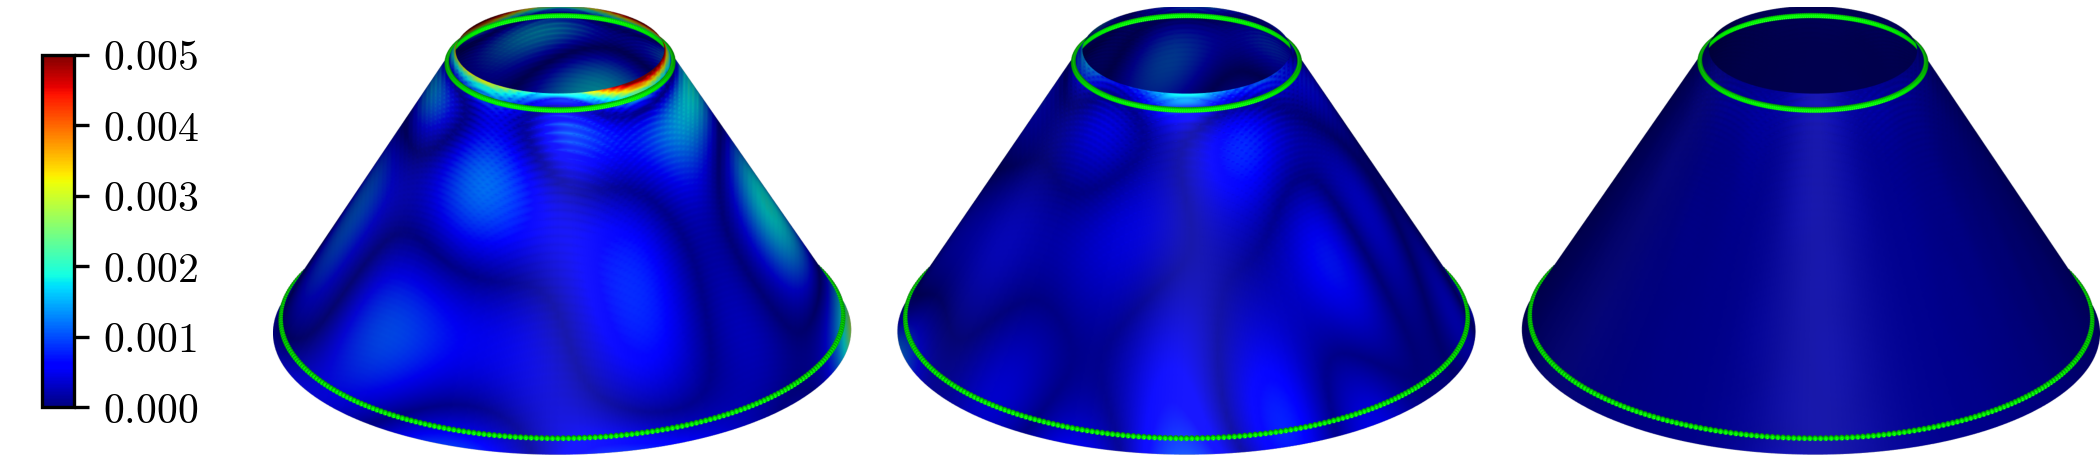
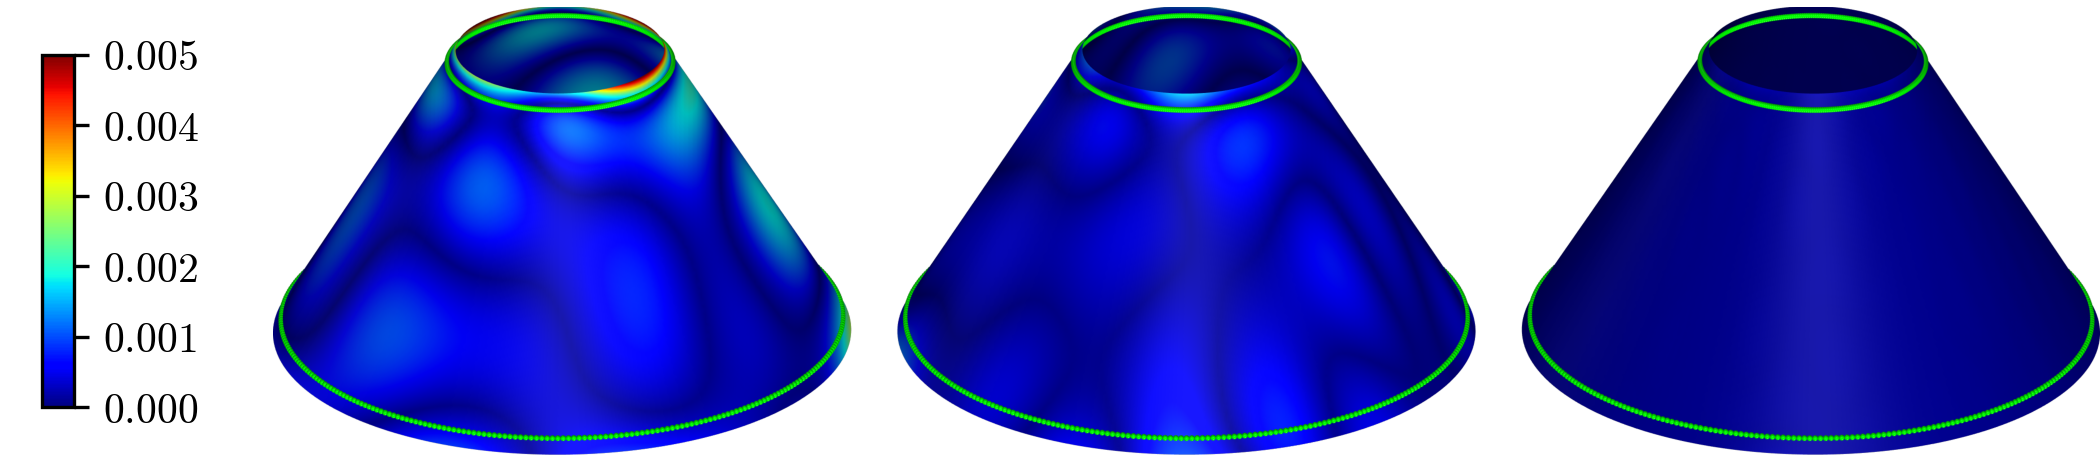
Seed statistics, LM and hybrid optimizers, heatmap curvature on the zero set

diff --git a/experiments/seeds.py b/experiments/seeds.py
@@ -1,0 +1,164 @@
+"""
+Statistics over repeated seeds of the runs in <task>/main (no training), e.g.
+
+    python -m experiments.seeds --tasks catenoid enneper cone rockerarm bunny jeb
+
+Writes per task to paper_figures/:
+    <task>_loss_seeds.png, <task>_chamfer_seeds.png    each seed's curve as the median in time bins of ~3 s; the median
+                                                        over the seeds that reach the target surface (line), their range
+                                                        (band), and the other seeds (dashed)
+and for all tasks together:
+    paper_figures/seeds_overview.png                    best Chamfer distance (JEB: loss) of every seed, per task and optimizer
+    experiments/results/seeds.md                        median [interquartile range] of the best models and outcome counts
+The figures show the optimizers of the paper figures (task.figure_opts); the table shows all optimizers with runs.
+On the minimal and developable surfaces (exact ground truth), each run is classified by outcome() into reaching the
+target surface, an alternative solution of the loss, or a failure. The other tasks have no such classification;
+artifacts such as spurious sheets show up in the Hausdorff distance.
+"""
+
+import argparse
+import os
+import numpy as np
+import matplotlib.pyplot as plt
+from experiments.run import RESULTS_DIR
+from experiments.tasks import TASKS
+from experiments.plot import LABELS, COLORS, load_runs
+from experiments.figures import PAPER_FIGURES_DIR
+
+FAIL_CD = 1e-2
+TITLES = {"rockerarm": "Rocker arm", "jeb": "JEB (loss)"}
+SEEDS = {"jeb": [0, 1, 2]}           ## default: 0-4
+RUN_SUFFIX = {"jeb": "_pretrainedown"}  ## the JEB seeds are pretrained per seed
+TABLE_KEYS = {"rockerarm": ["loss", "cd", "hausdorff"], "bunny": ["loss", "cd", "hausdorff"],
+              "jeb": ["loss", "interface_rms", "design_region_violation", "n_components"]}  ## default: loss, cd
+
+
+def load_seeds(task_name):
+    """{opt: [(log, evals), ...]} over the seeds of the task, for the optimizers that have runs."""
+    exp_dir = os.path.join(RESULTS_DIR, task_name, "main")
+    suffix = RUN_SUFFIX.get(task_name, "")
+    runs = {}
+    for opt in LABELS:
+        seed_runs = [load_runs(exp_dir, [opt + suffix], s).get(opt + suffix) for s in SEEDS.get(task_name, range(5))]
+        if any(seed_runs):
+            runs[opt] = [r for r in seed_runs if r is not None]
+    return runs
+
+
+def outcome(task_name, evals):
+    """
+    Minimal and developable surfaces: "target" if the best model is close to the true surface; otherwise "alternative"
+    if it still contains the boundary curve (another solution of the same loss, e.g. the planes through the catenoid's
+    rings), else "failed" (e.g. a collapsed f whose zero set misses the boundary). Other tasks: always "target".
+    """
+    m = evals["best"]
+    if not hasattr(TASKS[task_name], "curvature") or m["cd"] <= FAIL_CD:
+        return "target"
+    return "alternative" if m["interface_rms"] <= FAIL_CD else "failed"
+
+
+def binned(t, v, edges):
+    """
+    Median of log10(v) in each time bin (the loss is logged at every iteration and oscillates, so single samples are
+    noise); empty bins are interpolated, and bins after the last finite value are NaN (diverged runs).
+    """
+    t, v = np.asarray(t, dtype=float), np.asarray(v, dtype=float)
+    ok = np.isfinite(v) & (v > 0)
+    centers = (edges[:-1] + edges[1:]) / 2
+    if not ok.any():
+        return np.full_like(centers, np.nan)
+    t, y = t[ok], np.log10(v[ok])
+    idx = np.digitize(t, edges) - 1
+    med = np.array([np.median(y[idx == b]) if (idx == b).any() else np.nan for b in range(len(centers))])
+    has = np.isfinite(med)
+    med = np.interp(centers, centers[has], med[has])
+    med[centers > t[-1]] = np.nan
+    return med
+
+
+def plot_seeds_over_time(task_name, runs, key, ylabel, paths, opts, n_bins=400):
+    budget = max(log["time"][-1] for seed_runs in runs.values() for log, _ in seed_runs)
+    edges = np.linspace(0, budget, n_bins + 1)
+    centers = (edges[:-1] + edges[1:]) / 2
+    fig, ax = plt.subplots(1, 1, figsize=(5, 3))
+    for opt in opts:
+        curves, ok = [], []
+        for log, evals in runs[opt]:
+            t, v = (log["time"], log["loss"]) if key == "loss" else zip(*[(e["time"], e[key]) for e in evals["over_time"]])
+            curves.append(binned(t, v, edges))
+            ok.append(outcome(task_name, evals) == "target")
+            if not ok[-1]:
+                ax.plot(centers, 10 ** curves[-1], c=COLORS[opt], lw=0.6, ls="--", alpha=0.6)
+        good = np.array(curves)[ok]
+        if len(good):
+            ax.fill_between(centers, 10 ** np.nanmin(good, axis=0), 10 ** np.nanmax(good, axis=0),
+                            color=COLORS[opt], alpha=0.25, lw=0)
+            ax.plot(centers, 10 ** np.nanmedian(good, axis=0), c=COLORS[opt], label=LABELS[opt])
+    ax.set_xlabel("Time in [s]")
+    ax.set_ylabel(ylabel)
+    ax.semilogy()
+    ax.legend(loc="upper right")
+    plt.tight_layout()
+    for path in paths:
+        plt.savefig(path, dpi=300)
+    plt.close(fig)
+
+
+def overview(all_runs, path):
+    fig, axs = plt.subplots(1, len(all_runs), figsize=(1.7 * len(all_runs), 2.8))
+    rng = np.random.default_rng(0)
+    for ax, (task_name, runs) in zip(np.atleast_1d(axs), all_runs.items()):
+        key = "cd" if "cd" in next(iter(runs.values()))[0][1]["best"] else "loss"
+        for i, (opt, seed_runs) in enumerate(runs.items()):
+            v = [evals["best"][key] for _, evals in seed_runs]
+            ax.scatter(i + rng.uniform(-0.15, 0.15, len(v)), v, s=12, color=COLORS[opt])
+        if hasattr(TASKS[task_name], "curvature"):
+            ax.axhline(FAIL_CD, c="gray", ls="--", lw=0.8)
+        ax.set_xticks(range(len(runs)), [LABELS[opt] for opt in runs], rotation=45)
+        ax.set_xlim(-0.6, len(runs) - 0.4)
+        ax.semilogy()
+        ax.set_title(TITLES.get(task_name, task_name.capitalize()), fontsize=10)
+    np.atleast_1d(axs)[0].set_ylabel("Chamfer distance")
+    plt.tight_layout()
+    plt.savefig(path, dpi=300)
+    plt.close(fig)
+
+
+def seeds_table(task_name, runs):
+    keys = TABLE_KEYS.get(task_name, ["loss", "cd"])
+    rows = [f"### {task_name}\n", "| | seeds | alternative | failed | " + " | ".join(keys) + " |",
+            "|---" * (len(keys) + 4) + "|"]
+    for opt, seed_runs in runs.items():
+        cells = []
+        for k in keys:
+            v = [evals["best"][k] for _, evals in seed_runs]
+            fmt = "{:g}" if all(isinstance(x, int) for x in v) else "{:.1e}"  ## counts, e.g. n_components
+            cells.append("{} [{}, {}]".format(*(fmt.format(q) for q in np.percentile(v, [50, 25, 75]))))
+        outcomes = [outcome(task_name, evals) for _, evals in seed_runs]
+        counts = [outcomes.count(o) if hasattr(TASKS[task_name], "curvature") else "-" for o in ["alternative", "failed"]]
+        rows.append(f"| {LABELS[opt]} | {len(seed_runs)} | {counts[0]} | {counts[1]} | " + " | ".join(cells) + " |")
+    return "\n".join(rows)
+
+
+if __name__ == "__main__":
+    parser = argparse.ArgumentParser()
+    parser.add_argument("--tasks", nargs="+", default=list(TASKS), choices=TASKS)
+    args = parser.parse_args()
+
+    all_runs = {t: load_seeds(t) for t in args.tasks}
+    ## The figures show the optimizers of the paper figures (task.figure_opts), the table all optimizers with runs
+    figure_runs = {t: {opt: runs[opt] for opt in TASKS[t].figure_opts if opt in runs} for t, runs in all_runs.items()}
+    for task_name, runs in figure_runs.items():
+        out = lambda name: [os.path.join(PAPER_FIGURES_DIR, f"{task_name}_{name}_seeds.png")]
+        plot_seeds_over_time(task_name, runs, "loss", "Loss", out("loss"), list(runs))
+        if "cd" in next(iter(runs.values()))[0][1]["best"]:
+            plot_seeds_over_time(task_name, runs, "cd", "Chamfer distance", out("chamfer"), list(runs))
+    overview(figure_runs, os.path.join(PAPER_FIGURES_DIR, "seeds_overview.png"))
+    table = "## Best models over seeds: median [interquartile range]\n\n" + \
+            f"Minimal and developable surfaces: a best Chamfer distance above {FAIL_CD:g} is an alternative solution " + \
+            f"if the interface error stays below {FAIL_CD:g} (the surface still contains the boundary), " + \
+            "else a failure; all runs are included in the statistics.\n\n" + \
+            "\n\n".join(seeds_table(t, runs) for t, runs in all_runs.items()) + "\n"
+    with open(os.path.join(RESULTS_DIR, "seeds.md"), "w") as f:
+        f.write(table)
+    print(table)

diff --git a/experiments/figures.py b/experiments/figures.py
@@ -2,6 +2,7 @@
 Paper figures from finished runs (no training), e.g.
 
     python -m experiments.figures --task catenoid
+    python -m experiments.figures --task catenoid --runs gn_seed0 gn_seed4 --name nonunique --paper
 
 Writes the paper figures to paper_figures/ (prefix <task>, or <task>_<exp> for exp != main, plus --suffix):
     <prefix>_loss.png, <prefix>_chamfer.png               training curves
@@ -10,6 +11,8 @@ Writes the paper figures to paper_figures/ (prefix <task>, or <task>_<exp> for e
 and the interactive scenes to experiments/results/<task>/<exp>/k3d/:
     heatmap.html / surfaces.html                          the scene of the figure above
     heatmap_<opt>.html / surfaces_<opt>.html              one optimizer per file (e.g. for the README)
+With --runs, only the given runs are rendered side by side in the same style, to k3d/<name>.html and k3d/<name>.png
+(e.g. to compare seeds or inspect failures); --paper writes the PNG to paper_figures/<task>_<name>.png instead.
 The PNG of the k3d scene is rendered with headless Chrome via selenium.
 """
 
@@ -31,7 +34,7 @@ from util.visualization.utils_mesh import get_mesh
 from experiments.run import RESULTS_DIR
 from experiments.tasks import TASKS
 from experiments.plot import LABELS, load_runs, plot_over_time
-from experiments.metrics import largest_component
+from experiments.metrics import largest_component, project_to_model
 
 PAPER_FIGURES_DIR = os.path.join(os.path.dirname(os.path.dirname(__file__)), "paper_figures")
 
@@ -65,8 +68,14 @@ def surface_mesh(task, run_dir, N=256):
     if hasattr(task, "surface_attribute"):
         k = task.surface_attribute(model, verts)
     elif hasattr(task, "curvature"):
-        residual = getattr(ResidualLibrary(model), "_" + task.curvature)
-        k = vmap(residual, in_dims=(None, 0))(model.params, torch.tensor(verts, dtype=torch.float64)).squeeze()
+        ## Curvature of the zero set at the vertices projected onto it: the marching-cubes vertices lie up to a cell off
+        ## the surface, where the level sets of f can be curved differently if f is far from a distance function
+        res_lib = ResidualLibrary(model)
+        x = torch.tensor(verts, dtype=torch.float64)
+        p, converged = project_to_model(model, res_lib, x)
+        cell = (bbox_max - bbox_min).max().item() / N
+        p = torch.where((converged & ((p - x).norm(dim=1) < cell))[:, None], p, x)
+        k = vmap(getattr(res_lib, "_" + task.curvature), in_dims=(None, 0))(model.params, p).squeeze()
         k = k.abs().detach().cpu().numpy().astype(np.float32)
     return display_orientation(task, verts.astype(np.float32)), faces.astype(np.uint32), k
 
@@ -151,6 +160,9 @@ if __name__ == "__main__":
     parser.add_argument("--exp", default="main")
     parser.add_argument("--seed", type=int, default=0)
     parser.add_argument("--suffix", default="", help="run name suffix after the optimizer, e.g. _strain_clip1000")
+    parser.add_argument("--runs", nargs="*", help="only render these runs side by side, e.g. gn_seed0 gn_seed4")
+    parser.add_argument("--name", default="runs", help="figure name for --runs")
+    parser.add_argument("--paper", action="store_true", help="--runs: write the PNG to paper_figures/")
     args = parser.parse_args()
 
     torch.set_default_device('cuda')
@@ -159,6 +171,17 @@ if __name__ == "__main__":
     k3d_dir = os.path.join(exp_dir, "k3d" + args.suffix)
     os.makedirs(k3d_dir, exist_ok=True)
     os.makedirs(PAPER_FIGURES_DIR, exist_ok=True)
+    if args.runs:
+        ## Chosen runs side by side (e.g. different solutions or failure modes), in the style of the heatmap figure
+        meshes = [surface_mesh(task, os.path.join(exp_dir, run)) for run in args.runs]
+        html_path = os.path.join(k3d_dir, f"{args.name}.html")
+        with open(html_path, "w") as f:
+            f.write(k3d_scene(task, meshes).get_snapshot())
+        png_path = os.path.join(PAPER_FIGURES_DIR, f"{args.task}_{args.name}.png") if args.paper else html_path[:-5] + ".png"
+        heatmap_figure(k3d_screenshot(html_path, 800 * len(meshes), 800), task.heatmap.get("color_range"), [png_path],
+                       ticks=task.heatmap.get("ticks"))
+        print(f"{args.name} order (left to right):", ", ".join(args.runs))
+        raise SystemExit
     runs = load_runs(exp_dir, [opt + args.suffix for opt in task.figure_opts], args.seed)
     runs = {name.removesuffix(args.suffix): run for name, run in runs.items()}
     prefix = (args.task if args.exp == "main" else f"{args.task}_{args.exp.replace('/', '_')}") + args.suffix

diff --git a/experiments/run.py b/experiments/run.py
@@ -9,6 +9,9 @@ Writes to experiments/results/<task>/<exp>/<opt><tag><task args>_seed<seed>/:
     evals.json   error metrics every --eval-every seconds of training time, and at the end
     best.pt, final.pt  model state dicts
 
+Optimizers: gn, adam, lbfgs, lm (Levenberg-Marquardt), and the hybrids adam_lbfgs and adam_gn, which switch from Adam
+to the second optimizer after SWITCH_FRACTION of the budget (the usual Adam -> LBFGS recipe of PINNs).
+
 The clock only runs during the optimizer steps (incl. surface resampling).
 Evaluation, logging and best-model tracking happen with the clock paused.
 """
@@ -21,10 +24,12 @@ import time
 import torch
 from tqdm import trange
 from training.residuals import ResidualLibrary, compute_loss
-from training.optimizers import GaussNewton
+from training.optimizers import GaussNewton, LevenbergMarquardt
 from experiments.tasks import TASKS
 
 RESULTS_DIR = os.path.join(os.path.dirname(__file__), "results")
+BASE_OPT = {"lm": "gn", "adam_lbfgs": "adam", "adam_gn": "adam"}  ## whose task settings (eikonal weight) these use
+SWITCH_FRACTION = 0.25  ## hybrids: fraction of the budget spent with Adam
 
 
 class Clock:
@@ -80,6 +85,8 @@ def make_optimizer(name, model, res_terms, gn_class=GaussNewton, **kwargs):
         return torch.optim.Adam(model.parameters(), **kwargs)
     if name == "lbfgs":
         return torch.optim.LBFGS(model.parameters(), **kwargs)
+    if name == "lm":
+        return LevenbergMarquardt(model, res_terms, **kwargs)
     raise ValueError(f"Unknown optimizer {name}")
 
 
@@ -123,9 +130,11 @@ def run(task_name, opt_name, seed=0, budget=600, eval_every=5, task_args={}, opt
     model = pretrain(task, seed, os.path.join(pretrained_dir, f"seed{seed}{args_str}.pt"))
     params = model.params
     res_lib = ResidualLibrary(model)
-    res_terms = task.res_terms(res_lib, opt_name)
-    opt_kwargs = {**task.opt_defaults[opt_name], **opt_args}
-    optim = make_optimizer(opt_name, model, res_terms, getattr(task, "gn_class", GaussNewton), **opt_kwargs)
+    res_terms = task.res_terms(res_lib, BASE_OPT.get(opt_name, opt_name))
+    first, _, second = opt_name.partition("_")  ## hybrids: first, then second
+    opt_kwargs = {**task.opt_defaults.get(first, {}), **opt_args}
+    gn_class = getattr(task, "gn_class", GaussNewton)
+    optim = make_optimizer(first, model, res_terms, gn_class, **opt_kwargs)
 
     config = dict(
         task=task_name, task_args=task_args, opt=opt_name, opt_args=opt_kwargs, seed=seed, budget=budget,
@@ -137,7 +146,7 @@ def run(task_name, opt_name, seed=0, budget=600, eval_every=5, task_args={}, opt
     with open(os.path.join(out_dir, "config.json"), "w") as f:
         json.dump(config, f, indent=2)
 
-    log = {"time": [], "loss": [], **{k: [] for k in res_terms}}
+    log = {"time": [], "loss": [], **{k: [] for k in res_terms}, "switch_time": None}
     evals = []
     best_loss = float('inf')
     best_state = {k: v.clone() for k, v in model.state_dict().items()}
@@ -169,6 +178,9 @@ def run(task_name, opt_name, seed=0, budget=600, eval_every=5, task_args={}, opt
         if loss < best_loss:
             best_loss = loss
             best_state = {k: v.clone() for k, v in model.state_dict().items()}
+        if second and log["switch_time"] is None and clock.elapsed >= SWITCH_FRACTION * budget:
+            optim = make_optimizer(second, model, res_terms, gn_class, **task.opt_defaults[second])
+            log["switch_time"] = clock.elapsed
         pbar.set_description(f"t: {clock.elapsed:.0f}s loss: {loss:.2e}")
 
     torch.save(model.state_dict(), os.path.join(out_dir, "final.pt"))
@@ -186,7 +198,7 @@ def run(task_name, opt_name, seed=0, budget=600, eval_every=5, task_args={}, opt
 if __name__ == "__main__":
     parser = argparse.ArgumentParser()
     parser.add_argument("--task", required=True, choices=TASKS)
-    parser.add_argument("--opt", required=True, choices=["gn", "adam", "lbfgs"])
+    parser.add_argument("--opt", required=True, choices=["gn", "adam", "lbfgs", "lm", "adam_lbfgs", "adam_gn"])
     parser.add_argument("--seed", type=int, default=0)
     parser.add_argument("--budget", type=float, default=600, help="training time in seconds")
     parser.add_argument("--eval-every", type=float, default=5, help="seconds of training time between evaluations")

diff --git a/training/optimizers.py b/training/optimizers.py
@@ -184,3 +184,46 @@ class GaussNewtonNew:
         else:
             theta_new = theta_orig - self.lr * update
             self._assign_flat_params_inplace(theta_new)
+
+
+class LevenbergMarquardt(GaussNewtonNew):
+    """
+    Gauss-Newton with adaptive damping (Levenberg-Marquardt, a trust-region method): the full step
+    delta = (J^T J + lambda I)^{-1} J^T r is accepted if it decreases the loss 0.5 ||r||^2, and lambda is adapted
+    from the gain ratio rho = actual / predicted decrease (Nielsen's rule). A rejected step is retried with a larger
+    lambda on the same Jacobian.
+    """
+    def __init__(self, model, res_terms, tau=1e-3, max_tries=10):
+        super().__init__(model, res_terms, do_line_search=False)
+        self.tau = tau
+        self.max_tries = max_tries
+        self.damping = None  ## lambda, initialized from the diagonal of J^T J in the first step
+        self.nu = 2.0
+
+    @torch.no_grad()
+    def step(self):
+        self.t += 1
+        r = compute_residual(self.params_dict, self.res_terms)
+        grad = compute_JTv(self.params_dict, self.res_terms, r)
+        JTJ = compute_JTJ(self.params_dict, self.res_terms)
+        if self.damping is None:
+            self.damping = self.tau * JTJ.diagonal().max().item()
+        loss = 0.5 * r.square().sum()
+        theta_orig = parameters_to_vector(self.params_list)
+        eye = torch.eye(grad.shape[0], dtype=grad.dtype, device=grad.device)
+
+        for _ in range(self.max_tries):
+            delta, _, _, _ = torch.linalg.lstsq((JTJ + self.damping * eye).double(), grad.double(), driver="gels")
+            delta = delta.to(dtype=theta_orig.dtype)
+            predicted = 0.5 * delta @ (self.damping * delta + grad)
+            self._assign_flat_params_inplace(theta_orig - delta)
+            actual = loss - 0.5 * compute_residual(self.params_dict, self.res_terms).square().sum()
+            rho = (actual / predicted).item() if predicted > 0 else -1.0
+            if rho > 0:
+                self.damping *= max(1 / 3, 1 - (2 * rho - 1) ** 3)
+                self.nu = 2.0
+                self.loss = (loss - actual).item()
+                return
+            self._assign_flat_params_inplace(theta_orig)
+            self.damping *= self.nu
+            self.nu *= 2

diff --git a/experiments/plot.py b/experiments/plot.py
@@ -18,13 +18,15 @@ import matplotlib.pyplot as plt
 from experiments.run import RESULTS_DIR
 from experiments.tasks import TASKS
 
-LABELS = {"adam": "Adam", "lbfgs": "LBFGS", "gn": "GN"}
+LABELS = {"adam": "Adam", "lbfgs": "LBFGS", "gn": "GN",
+          "lm": "LM", "adam_lbfgs": r"Adam $\to$ LBFGS", "adam_gn": r"Adam $\to$ GN"}
 COLORS = {opt: plt.get_cmap('tab10')(i) for i, opt in enumerate(LABELS)}
 
 
 def split_name(name):
-    """'lbfgs_notebook' -> ('lbfgs', 'LBFGS (notebook)')"""
-    opt, _, tag = name.partition("_")
+    """'lbfgs_notebook' -> ('lbfgs', 'LBFGS (notebook)'); the longest optimizer name wins ('adam_lbfgs' is a hybrid)"""
+    opt = max((o for o in LABELS if name == o or name.startswith(o + "_")), key=len)
+    tag = name[len(opt) + 1:]
     return opt, LABELS[opt] + (f" ({tag})" if tag else "")
 
 
